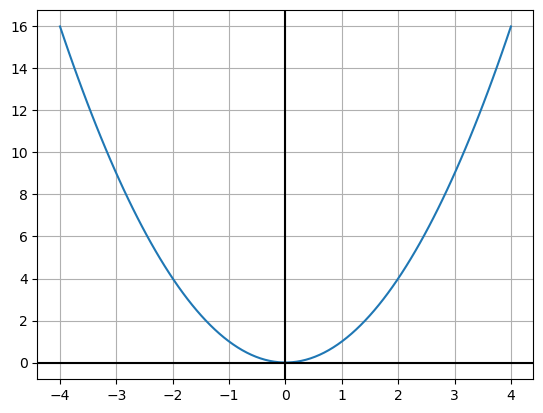
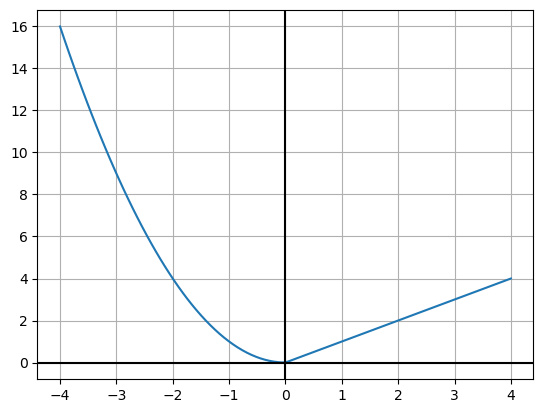
Built site for gh-pages

diff --git a/funksjonar-plotting.html b/funksjonar-plotting.html
@@ -312,14 +312,14 @@ x^2 &amp; \text{for } x \leq 0 \\
 x &amp; \text{for } x &gt; 0
 \end{cases}\]</span></p>
 <p>Denne kan definerast med <code>numpy.piecewise()</code>.</p>
-<div class="cell" data-execution_count="11">
+<div class="cell" data-execution_count="1">
 <div class="sourceCode cell-code" id="cb1"><pre class="sourceCode numberSource python number-lines code-with-copy"><code class="sourceCode python"><span id="cb1-1"><a href="#cb1-1"></a><span class="im">import</span> numpy <span class="im">as</span> np</span>
 <span id="cb1-2"><a href="#cb1-2"></a><span class="im">import</span> matplotlib.pyplot <span class="im">as</span> plt</span></code><button title="Kopier til utklippstavla" class="code-copy-button"><i class="bi"></i></button></pre></div>
 </div>
 <p>Startar med å definera funksjonen. Det gjer me med</p>
 <div class="sourceCode" id="cb2"><pre class="sourceCode numberSource {python} number-lines code-with-copy"><code class="sourceCode"><span id="cb2-1"><a href="#cb2-1"></a>numpy.piecewise(x, condlist, funclist)</span></code><button title="Kopier til utklippstavla" class="code-copy-button"><i class="bi"></i></button></pre></div>
 <p>der <code>condlist</code> er ei liste med betingelse/intervall og <code>funclist</code> funksjonane i same rekkefølge</p>
-<div class="cell" data-execution_count="12">
+<div class="cell" data-execution_count="2">
 <div class="sourceCode cell-code" id="cb3"><pre class="sourceCode numberSource python number-lines code-with-copy"><code class="sourceCode python"><span id="cb3-1"><a href="#cb3-1"></a><span class="kw">def</span> f(x):</span>
 <span id="cb3-2"><a href="#cb3-2"></a>    <span class="cf">return</span> np.piecewise(</span>
 <span id="cb3-3"><a href="#cb3-3"></a>        x <span class="op">=</span> x, </span>
@@ -340,27 +340,27 @@ Kva er <code>lambda</code>?
 <div id="callout-1" class="callout-1-contents callout-collapse collapse">
 <div class="callout-body-container callout-body">
 <p><code>lambda x:</code> er kortversjonen av</p>
-<div class="cell" data-execution_count="13">
-<div class="sourceCode cell-code" id="cb4"><pre class="sourceCode numberSource python number-lines code-with-copy"><code class="sourceCode python"><span id="cb4-1"><a href="#cb4-1"></a><span class="kw">def</span> f(x):</span>
+<div class="cell" data-execution_count="3">
+<div class="sourceCode cell-code" id="cb4"><pre class="sourceCode numberSource python number-lines code-with-copy"><code class="sourceCode python"><span id="cb4-1"><a href="#cb4-1"></a><span class="kw">def</span> g(x):</span>
 <span id="cb4-2"><a href="#cb4-2"></a>    <span class="cf">return</span> x<span class="op">**</span><span class="dv">2</span></span></code><button title="Kopier til utklippstavla" class="code-copy-button"><i class="bi"></i></button></pre></div>
 </div>
 <p>Dermed kan me heller definera funksjonen slik:</p>
-<div class="cell" data-execution_count="14">
+<div class="cell" data-execution_count="4">
 <div class="sourceCode cell-code" id="cb5"><pre class="sourceCode numberSource python number-lines code-with-copy"><code class="sourceCode python"><span id="cb5-1"><a href="#cb5-1"></a>x <span class="op">=</span> np.linspace(<span class="op">-</span><span class="dv">3</span>,<span class="dv">2</span>,<span class="dv">5</span>)</span>
-<span id="cb5-2"><a href="#cb5-2"></a>f <span class="op">=</span> <span class="kw">lambda</span> x: x<span class="op">**</span><span class="dv">2</span></span>
+<span id="cb5-2"><a href="#cb5-2"></a>g <span class="op">=</span> <span class="kw">lambda</span> x: x<span class="op">**</span><span class="dv">2</span></span>
 <span id="cb5-3"><a href="#cb5-3"></a></span>
-<span id="cb5-4"><a href="#cb5-4"></a>y <span class="op">=</span> f(x)</span></code><button title="Kopier til utklippstavla" class="code-copy-button"><i class="bi"></i></button></pre></div>
+<span id="cb5-4"><a href="#cb5-4"></a>y <span class="op">=</span> g(x)</span></code><button title="Kopier til utklippstavla" class="code-copy-button"><i class="bi"></i></button></pre></div>
 </div>
 </div>
 </div>
 </div>
 <p>Lagar ein array med 100 <span class="math inline">\(x\)</span>-verdiar og finn vidare <span class="math inline">\(y\)</span>-verdiane med funksjonen me definerte.</p>
-<div class="cell" data-execution_count="15">
+<div class="cell" data-execution_count="5">
 <div class="sourceCode cell-code" id="cb6"><pre class="sourceCode numberSource python number-lines code-with-copy"><code class="sourceCode python"><span id="cb6-1"><a href="#cb6-1"></a>x <span class="op">=</span> np.linspace(<span class="op">-</span><span class="dv">4</span>,<span class="dv">4</span>,<span class="dv">100</span>)</span>
 <span id="cb6-2"><a href="#cb6-2"></a>y <span class="op">=</span> f(x)</span></code><button title="Kopier til utklippstavla" class="code-copy-button"><i class="bi"></i></button></pre></div>
 </div>
 <p>Plottar grafen:</p>
-<div class="cell" data-execution_count="16">
+<div class="cell" data-execution_count="6">
 <div class="sourceCode cell-code" id="cb7"><pre class="sourceCode numberSource python number-lines code-with-copy"><code class="sourceCode python"><span id="cb7-1"><a href="#cb7-1"></a>plt.plot(x, y)</span>
 <span id="cb7-2"><a href="#cb7-2"></a></span>
 <span id="cb7-3"><a href="#cb7-3"></a><span class="co"># pynt</span></span>
